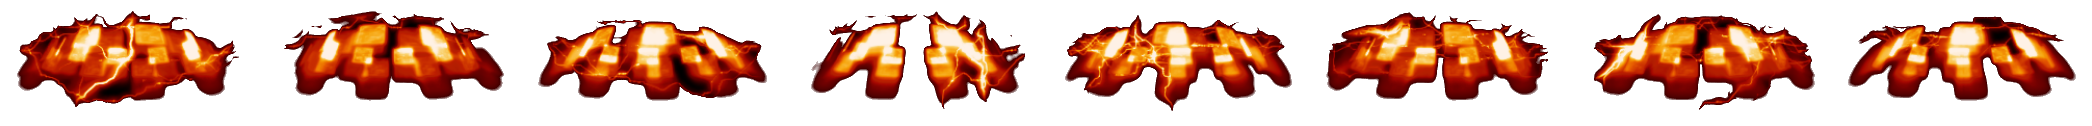
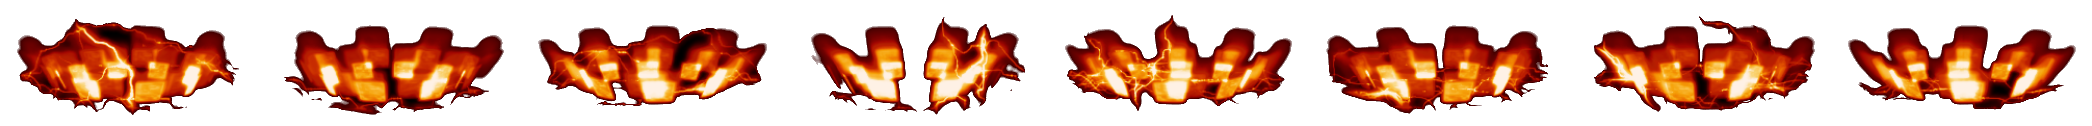
Reimu 라스트스펠 애니메이션
라스트스펠애니메이션완성

diff --git a/Project/Reimu/Reimu-Lastspell-Animation.py b/Project/Reimu/Reimu-Lastspell-Animation.py
@@ -1,0 +1,70 @@
+from pico2d import *
+
+open_canvas()
+BgShrine = load_image('Hakurei Shrine.png')
+Player_X =200
+Enemy_X=600
+All_Y=200
+
+ReimuLastSpell = load_image('Reimu-Last Spell-Motion.png')
+ReimuLastSpelleffect1 = load_image('Reimu-Lastspell1.png')
+ReimuLastSpelleffect2 = load_image('Reimu-Lastspell2-1.png')
+ReimuLastSpelleffect3 = load_image('Reimu-Lastspell3-2.png')
+
+
+def Reimu_LastSpell():
+        frame=[0,105, 209,311,414, 517, 620, 724, 822, 910, 995,1068,1145,1242,1345,1445]
+        frame2=[105,104,102,103,104,103,104,98,88,85,74,77,97,103,100]
+        PSx = [580, 620, 600]
+        SSy = [160.175,200,225,250]
+        ESx = [180,220,200]
+        
+        i=0
+        j=0
+        c=0
+        d=0
+        cheak=0
+        S_frame=0
+        S1_frame=0
+        S2_frame=0
+        while(cheak<22):
+                clear_canvas()
+                BgShrine.clip_draw(0,0,800,600,400,300)
+                #플레이어
+                ReimuLastSpell.clip_draw(frame[i],130,frame2[j],130,Player_X,All_Y)
+                #적
+                ReimuLastSpell.clip_draw(frame[i],0,frame2[j],130,Enemy_X,All_Y)
+                if (cheak<9):
+                   i=(i+1)%16
+                   j=(j+1)%15
+                if cheak>=9:
+                    if cheak<14:
+                        #플레이어 공격
+                        ReimuLastSpelleffect1.clip_draw(S_frame *133,0,133,207,Enemy_X,230)
+                        ReimuLastSpelleffect2.clip_draw(S1_frame *261,0,262,126,Enemy_X-10,160)
+                        ReimuLastSpelleffect3.clip_draw(S2_frame *133,0,133,126,PSx[c],SSy[d])
+                        #적 공격
+                        ReimuLastSpelleffect1.clip_draw(S_frame *133,0,133,207,Player_X,230)
+                        ReimuLastSpelleffect2.clip_draw(S1_frame *261,0,262,126,Player_X-10,160)
+                        ReimuLastSpelleffect3.clip_draw(S2_frame *133,0,133,126,ESx[c],SSy[d])
+                        c =(c+1)%2
+                        d=(d+1)%4
+                if cheak>=16:
+                    
+                    i=(i+1)%16
+                    j=(j+1)%15
+                
+                S_frame=(S_frame+1)%13
+                S1_frame=(S1_frame+1)%8
+                S2_frame=(S1_frame+1)%3
+                update_canvas()
+                
+                delay(0.1)
+                cheak +=1
+
+
+while(True):
+        BgShrine.clip_draw(0,0,800,600,400,300)
+        Reimu_LastSpell()
+
+close_canvas()
